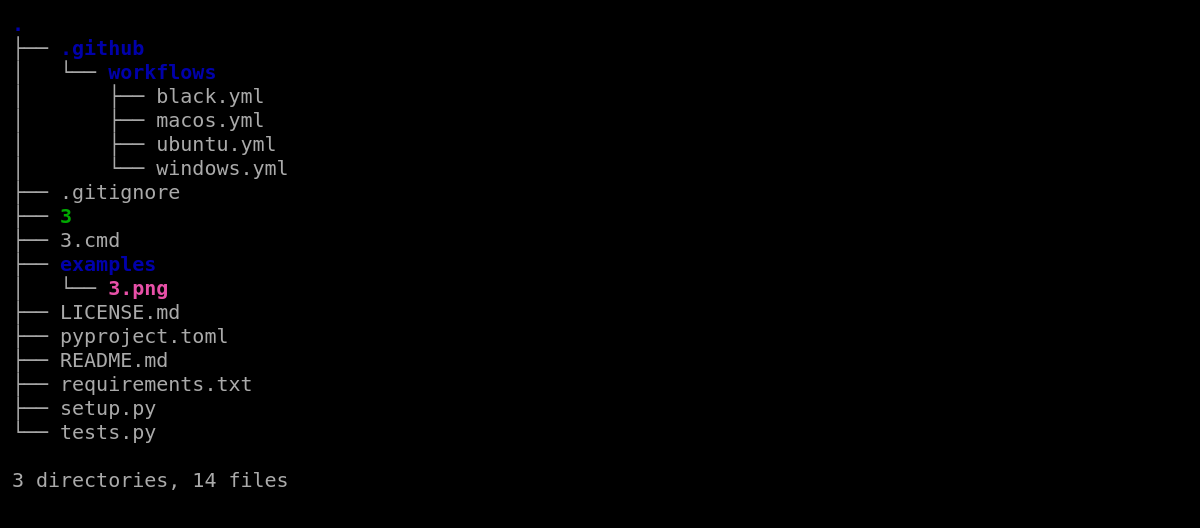
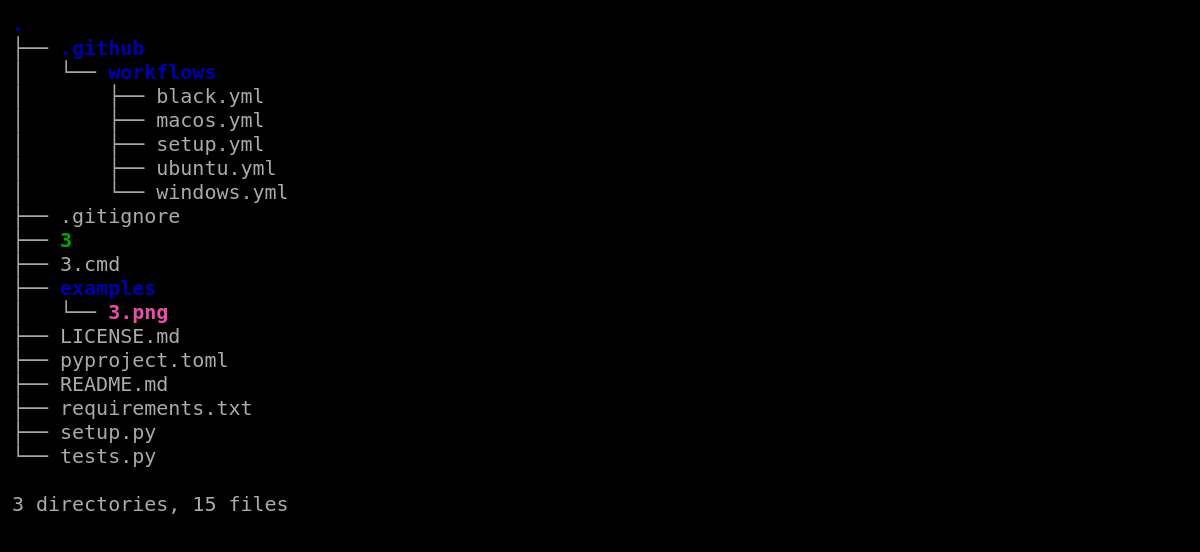
Better setup.

Changed region(s): [[0.0, 0.0606, 0.2467, 0.8485], [0.0308, 0.8788, 0.2467, 0.9394], [0.0, 0.0606, 0.0308, 0.0909]]

diff --git a/setup.py b/setup.py
@@ -2,41 +2,42 @@ import os
 import setuptools
 
 
-with open(f"{os.path.dirname(os.path.abspath(__file__))}/README.md") as readme:
-    setuptools.setup(
-        name="3-py",
-        version="1.1.6",
-        description="`.gitignore`-aware tree tool written in Python",
-        long_description=readme.read(),
-        long_description_content_type="text/markdown",
-        author="Vladimir Chebotarev",
-        author_email="vladimir.chebotarev@gmail.com",
-        license="MIT",
-        classifiers=[
-            "Development Status :: 5 - Production/Stable",
-            "Environment :: Console",
-            "Intended Audience :: Developers",
-            "License :: OSI Approved :: MIT License",
-            "Operating System :: OS Independent",
-            "Programming Language :: Python :: 3 :: Only",
-            "Programming Language :: Python :: 3.7",
-            "Programming Language :: Python :: 3.8",
-            "Programming Language :: Python :: 3.9",
-            "Programming Language :: Python :: 3.10",
-            "Programming Language :: Python :: 3.11",
-            "Programming Language :: Python :: 3.12",
-            "Topic :: Software Development",
-            "Topic :: Terminals",
-            "Topic :: Utilities",
-        ],
-        keywords=["git", "gitignore", "tree"],
-        project_urls={
-            "Documentation": "https://github.com/excitoon/3/blob/master/README.md",
-            "Source": "https://github.com/excitoon/3",
-            "Tracker": "https://github.com/excitoon/3/issues",
-        },
-        url="https://github.com/excitoon/3",
-        packages=[],
-        scripts=["3", "3.cmd"],
-        install_requires=["gitignorefile"],
-    )
+with open(f"{os.path.dirname(os.path.abspath(__file__))}/requirements.txt") as requirements:
+    with open(f"{os.path.dirname(os.path.abspath(__file__))}/README.md") as readme:
+        setuptools.setup(
+            name="3-py",
+            version="1.1.6",
+            description="`.gitignore`-aware tree tool written in Python",
+            long_description=readme.read(),
+            long_description_content_type="text/markdown",
+            author="Vladimir Chebotarev",
+            author_email="vladimir.chebotarev@gmail.com",
+            license="MIT",
+            classifiers=[
+                "Development Status :: 5 - Production/Stable",
+                "Environment :: Console",
+                "Intended Audience :: Developers",
+                "License :: OSI Approved :: MIT License",
+                "Operating System :: OS Independent",
+                "Programming Language :: Python :: 3 :: Only",
+                "Programming Language :: Python :: 3.7",
+                "Programming Language :: Python :: 3.8",
+                "Programming Language :: Python :: 3.9",
+                "Programming Language :: Python :: 3.10",
+                "Programming Language :: Python :: 3.11",
+                "Programming Language :: Python :: 3.12",
+                "Topic :: Software Development",
+                "Topic :: Terminals",
+                "Topic :: Utilities",
+            ],
+            keywords=["git", "gitignore", "tree"],
+            project_urls={
+                "Documentation": "https://github.com/excitoon/3/blob/master/README.md",
+                "Source": "https://github.com/excitoon/3",
+                "Tracker": "https://github.com/excitoon/3/issues",
+            },
+            url="https://github.com/excitoon/3",
+            packages=[],
+            scripts=["3", "3.cmd"],
+            install_requires=requirements.read().splitlines(),
+        )

diff --git a/tests.py b/tests.py
@@ -23,6 +23,7 @@ class Test3(unittest.TestCase):
 │   └── [01;34mworkflows[0m
 │       ├── [00mblack.yml[0m
 │       ├── [00mmacos.yml[0m
+│       ├── [00msetup.yml[0m
 │       ├── [00mubuntu.yml[0m
 │       └── [00mwindows.yml[0m
 ├── [00m.gitignore[0m
@@ -37,6 +38,6 @@ class Test3(unittest.TestCase):
 ├── [00msetup.py[0m
 └── [00mtests.py[0m
 
-3 directories, 14 files
+3 directories, 15 files
 """.lstrip().encode(),
         )
